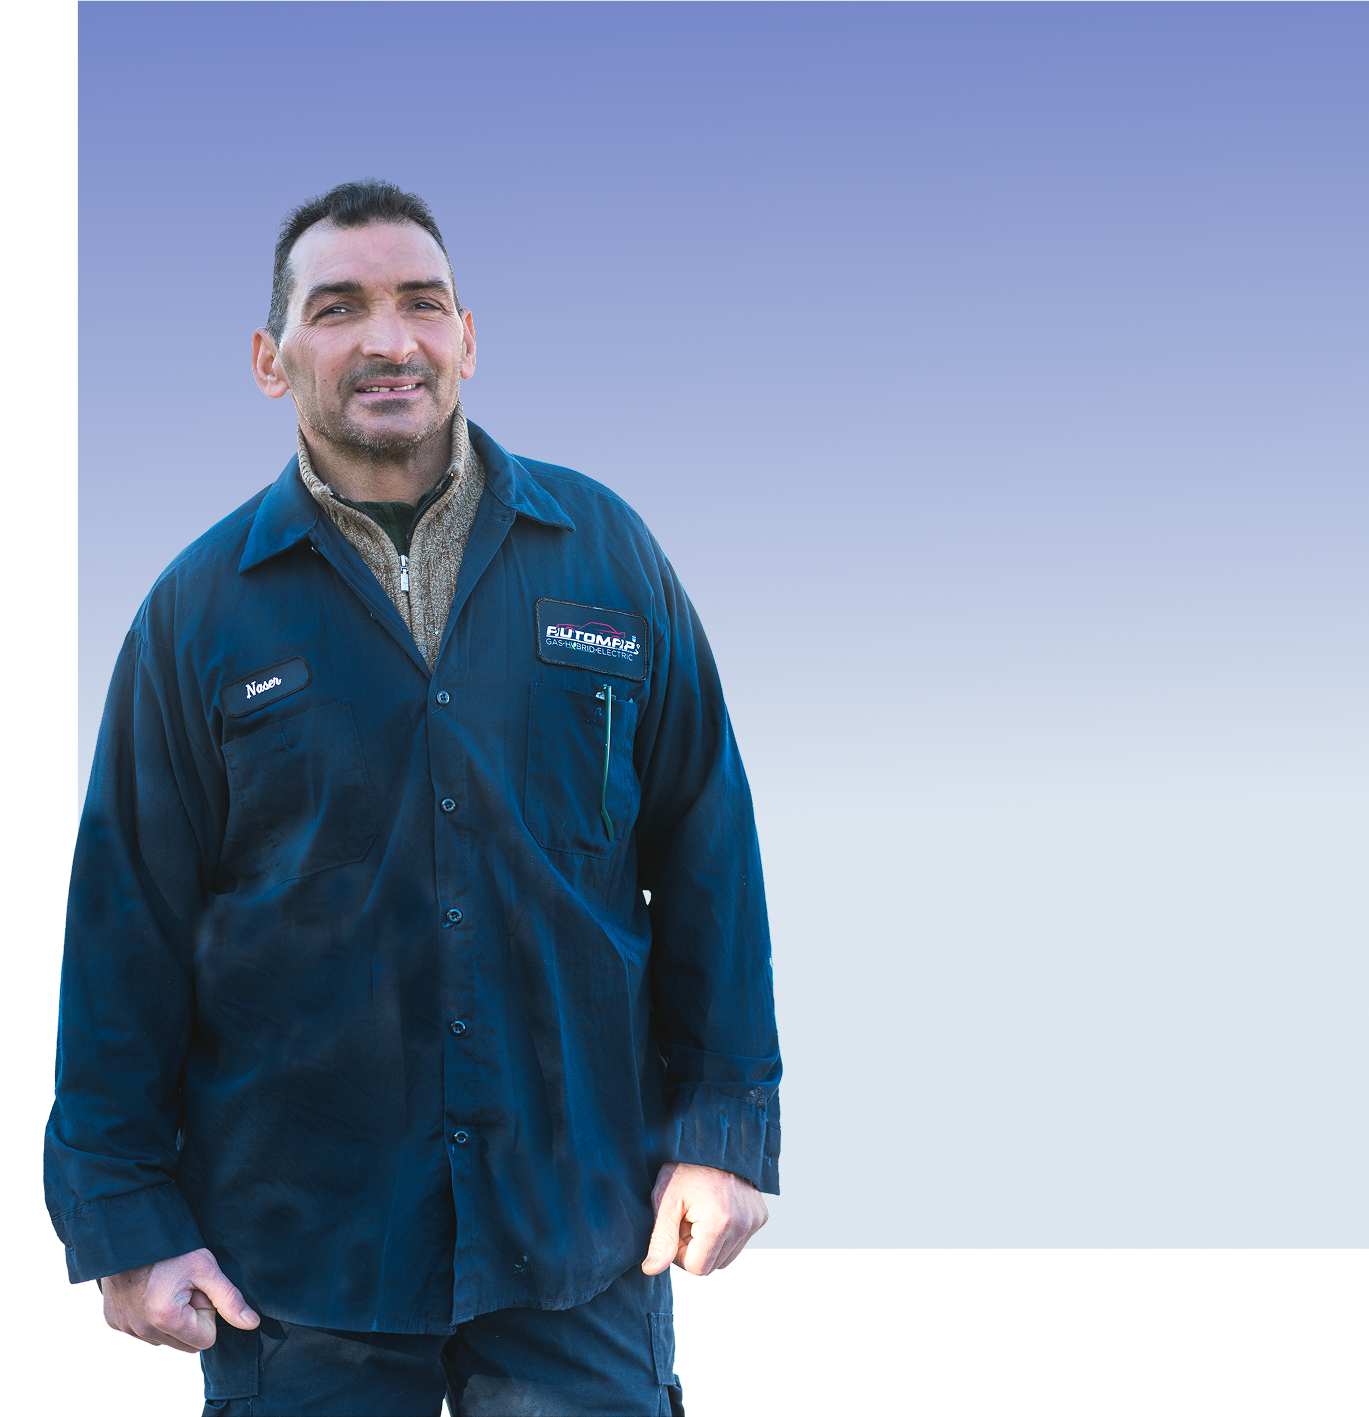
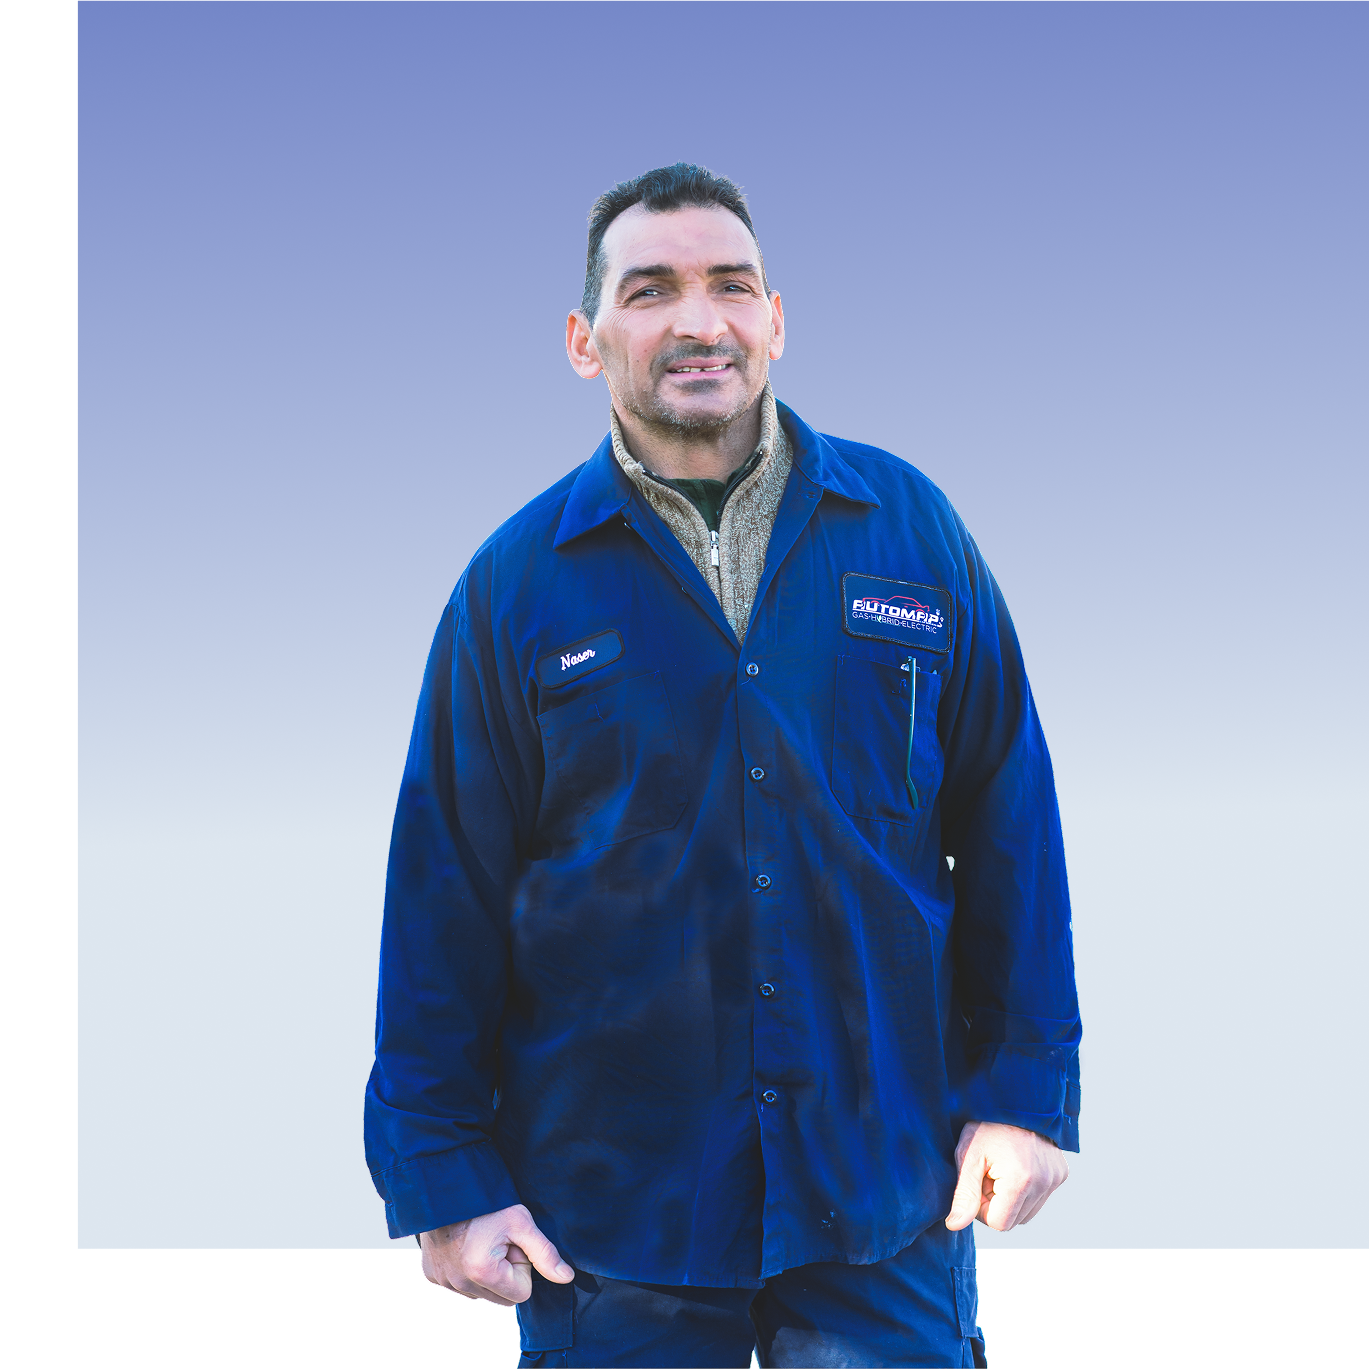
Pic 3 chanched

diff --git a/index.html b/index.html
@@ -200,7 +200,7 @@
 							<img src="images/aboutUsImages/BGImageAboutUs.png" class="about-vector" alt="Decorative vector">
 							<div class="team-card position-relative" style="z-index: 1;">
 								<img src="./images/aboutUsImages/Mechanic3Image.png" class="img-fluid team-photo" alt="Noah">
-								<h4 class="team-name">Noah</h4>
+								<h4 class="team-name">Naser</h4>
 								<p class="team-title">Mechanic</p>
 								<p class="team-text">Lorem Ipsum is simply dummy text of the printing and typesetting industry. Lorem Ipsum has been the industry's standard dummy text ever since the 1500s, when an unknown printer took a galley of type and scrambled it to make a type specimen book. It has survived not only five centuries, but also the leap into electronic typesetting, remaining essentially unchanged.</p>
 							</div>
